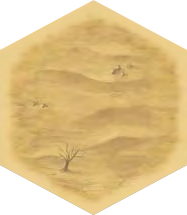
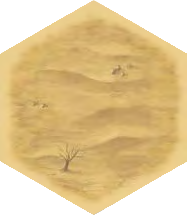
Make hexes equilateral

diff --git a/src/data/expansions.ts b/src/data/expansions.ts
@@ -3,11 +3,11 @@ import { Expansions } from "../types/boards";
 /**
  * If we split each hex into a top triangle, a middle rectangle, and a bottom
  * triangle, the ratio of of the height of one of the triangles to that of the
- * rectangle, in pixels, is 50/114. This number is slightly more than that to
+ * rectangle, in pixels, is 54/107. This number is slightly more than that to
  * account for unclean edges that create seams between hexes when a smaller
  * value is used.  It will be helpful when constructing grid templates
  */
-const SMALL_ROW_SIZE = 0.48;
+const SMALL_ROW_SIZE = 0.53;
 
 // TODO: add seafarers and anything else that makes sense
 export const EXPANSIONS: Expansions = new Map([
